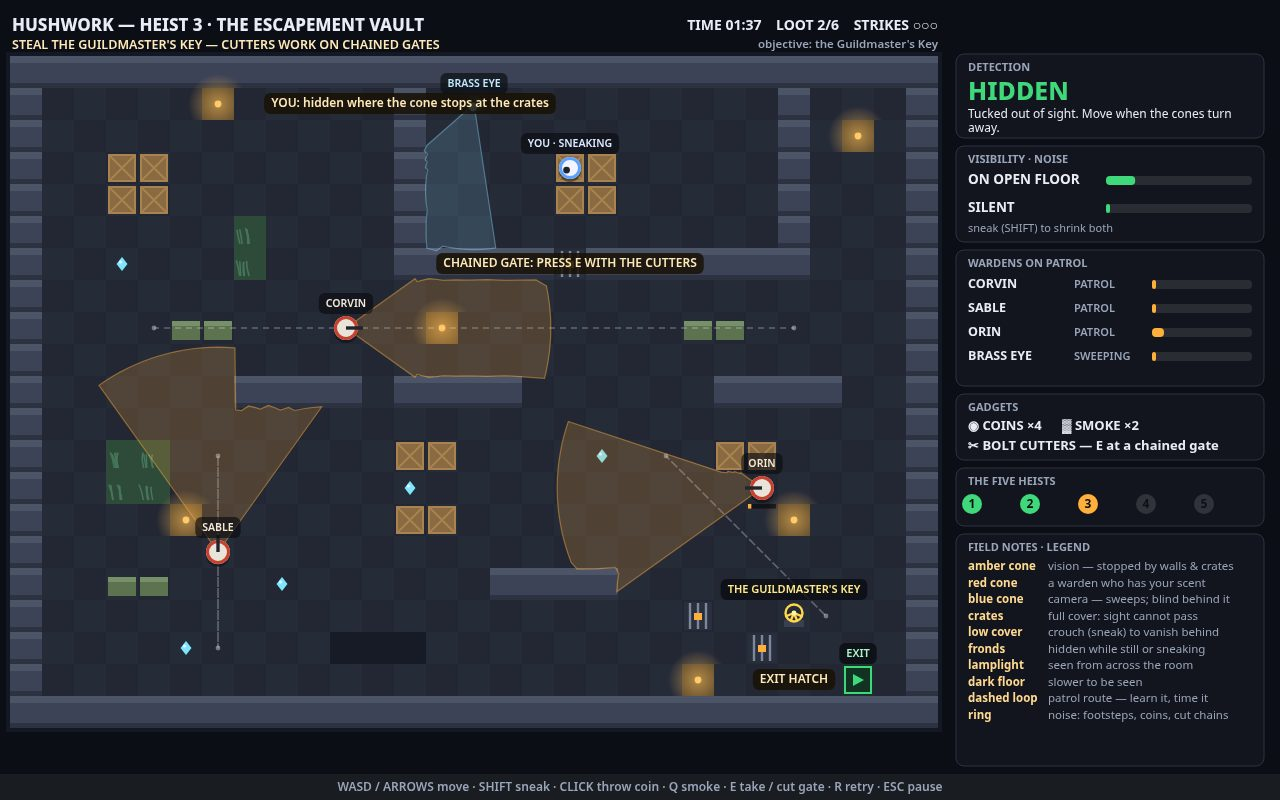
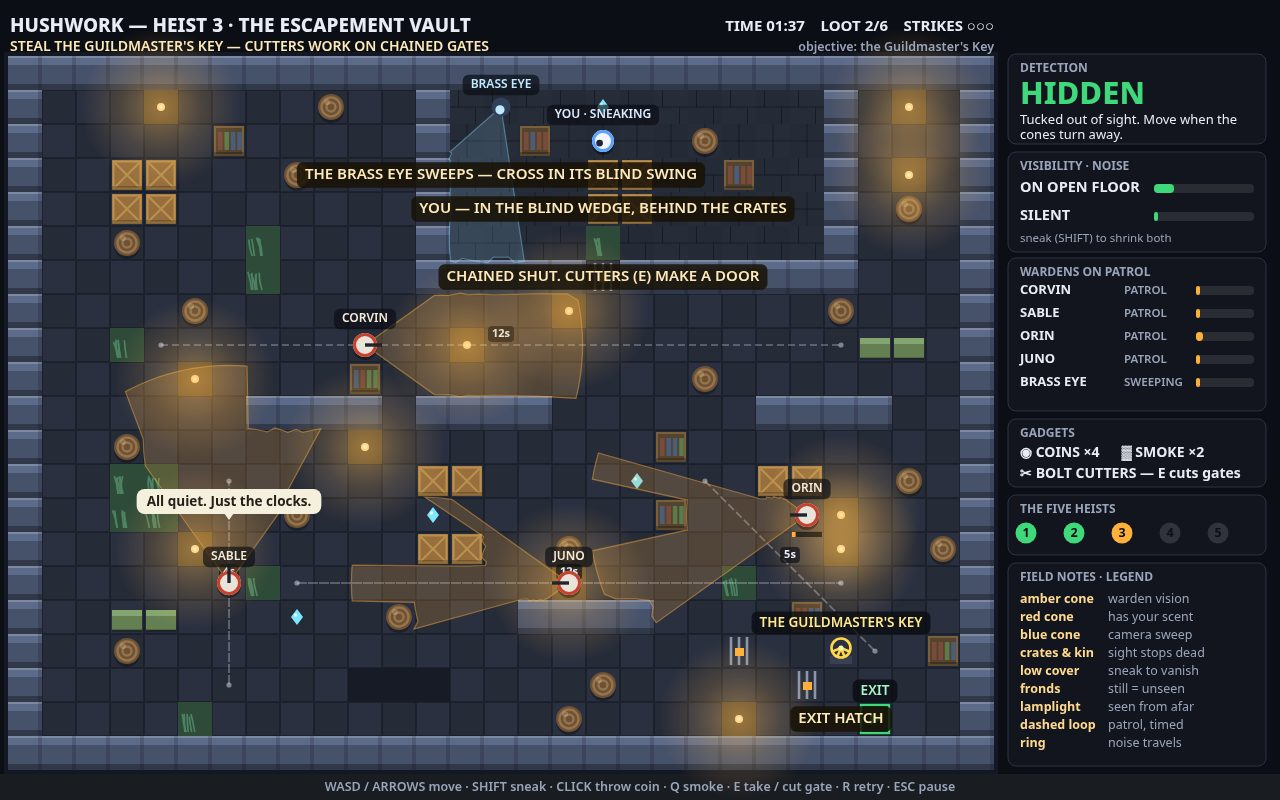
Fix input double-fire, polish staged shots
- One click now throws exactly one coin (one-shot inputs are consumed in
  updatePlayer, so multi-step frames cannot re-fire them)
- Gadgets line shortened to fit the slim rail; speech bubbles raised clear
  of the ? / ! markers; cover callout moved onto the crates it describes
- Alarm: smoke tag shifted off Tomas's bubble, Bex staged a tile north so
  her name clears the tag; getaway: no stray noise ring at the hatch,
  route threaded between the crates

diff --git a/game/js/shots.js b/game/js/shots.js
@@ -62,7 +62,7 @@ export function stageShot(state, name) {
     place(state, 'MIRA', 12, 11, 0, 1, 'alert');
     speak(state, 'MIRA', 'Thief! There!');
     stepRing(state, 11, 11, 0.3);
-    place(state, 'BEX', 13, 8, Math.PI / 2, 0.3);
+    place(state, 'BEX', 13, 7, Math.PI / 2, 0.3);
     place(state, 'TOMAS', 25, 9, Math.PI, 0.85, 'suspicious');
     speak(state, 'TOMAS', 'Hey— who goes there?');
     place(state, 'WREN-KEEPER', 10, 18, 0, 0);
@@ -73,7 +73,7 @@ export function stageShot(state, name) {
     putPlayer(state, 16, 11, false, 0.92, 0);
     stepRing(state, 15, 11, 0.15);
     stepRing(state, 14, 11, 0.42);
-    state.tags.push({ x: puff.x, y: puff.y - 78, text: 'SMOKE — HIS CONE DIES IN IT', until: 9999 });
+    state.tags.push({ x: puff.x - 150, y: puff.y - 70, text: 'SMOKE — HIS CONE DIES IN IT', until: 9999 });
     state.banner = { text: 'SPOTTED BY WARDEN MIRA — BREAK LINE OF SIGHT AND HIDE', until: 9999, bad: true };
     return;
   }
@@ -87,8 +87,9 @@ export function stageShot(state, name) {
     place(state, 'CORVIN', 14, 9, 0, 0);
     place(state, 'BEX', 22, 10, Math.PI / 2, 0);
     putPlayer(state, 25, 19, false, 0.5, 0);
+    state.playerNoiseR = 0; // at the hatch, standing still: no noise ring on the results screen
     state.callouts = [];
-    const tiles = [[1, 1], [8, 1], [12, 3], [12, 7], [16, 9], [20, 9], [23, 10], [24, 13], [22, 16], [25, 19]];
+    const tiles = [[1, 1], [8, 1], [12, 3], [12, 7], [16, 9], [20, 9], [23, 10], [24, 13], [21, 16], [23, 18], [25, 19]];
     state.route = tiles.map(([tx, ty]) => tileCenter(tx, ty));
     state.result = {
       title: 'CLEAN GETAWAY', subtitle: 'Heist 1 · The Apprentice Loft — the Brass Orrery lifted',
@@ -125,5 +126,5 @@ export function stageShot(state, name) {
   place(state, 'JUNO', 16, 15, Math.PI, 0);
   state.cameras[0].dir = Math.PI / 2 + 0.35;
   putPlayer(state, 17, 2, true, 0.2, 2.6);
-  state.callouts.push({ tx: 19, ty: 1, text: 'YOU — IN THE BLIND WEDGE, BEHIND THE CRATES' });
+  state.callouts.push({ tx: 17, ty: 4, text: 'YOU — IN THE BLIND WEDGE, BEHIND THE CRATES' });
 }

diff --git a/game/js/game.js b/game/js/game.js
@@ -197,10 +197,11 @@ function updatePlayer(state, dt) {
     }
   }
 
-  // Gadgets and interaction.
-  if (input.mouse.clicked) throwCoin(state, input.mouse.x, input.mouse.y);
-  if (input.pressed.has('KeyQ')) dropSmoke(state);
-  if (input.pressed.has('KeyE')) {
+  // Gadgets and interaction. Each one-shot input is consumed as it fires, so a frame that
+  // runs several fixed steps cannot throw two coins for one click.
+  if (input.mouse.clicked) { input.mouse.clicked = false; throwCoin(state, input.mouse.x, input.mouse.y); }
+  if (input.pressed.delete('KeyQ')) dropSmoke(state);
+  if (input.pressed.delete('KeyE')) {
     for (let oy = -1; oy <= 1; oy += 1) {
       for (let ox = -1; ox <= 1; ox += 1) {
         if (state.level.map[ty + oy]?.[tx + ox] === 'g') {

diff --git a/game/js/hud.js b/game/js/hud.js
@@ -121,7 +121,7 @@ export function drawHUD(ctx, state) {
   ctx.font = '700 14px system-ui, sans-serif';
   ctx.fillText(`◉ COINS ×${state.coinsLeft}      ▓ SMOKE ×${state.smokesLeft}`, x + 12, y + 38);
   ctx.fillStyle = state.level.cutters ? PALETTE.ink : PALETTE.inkDim;
-  ctx.fillText(state.level.cutters ? '✂ BOLT CUTTERS — E at a chained gate' : '✂ bolt cutters: not on this heist', x + 12, y + 59);
+  ctx.fillText(state.level.cutters ? '✂ BOLT CUTTERS — E cuts gates' : '✂ bolt cutters: not on this heist', x + 12, y + 59);
   y += 76;
   // Heist progress.
   panel(ctx, x, y, w, 60, 'THE FIVE HEISTS');

diff --git a/game/js/render.js b/game/js/render.js
@@ -165,7 +165,7 @@ export function drawWorld(ctx, state) {
     }
     if (g.state === 'alert') pill(ctx, g.x, g.y - 48, '!', '#ffffff', 'rgba(214,32,24,0.92)', 19);
     else if (g.suspicion >= 0.38) pill(ctx, g.x, g.y - 48, '?', '#1c1408', 'rgba(255,176,58,0.95)', 19);
-    if (g.say && state.time < g.say.until) bubble(ctx, g.x, g.y - 58, g.say.text);
+    if (g.say && state.time < g.say.until) bubble(ctx, g.x, g.y - 68, g.say.text);
   }
 
   // The lifter. A soft ring shows the noise your pace is making.
